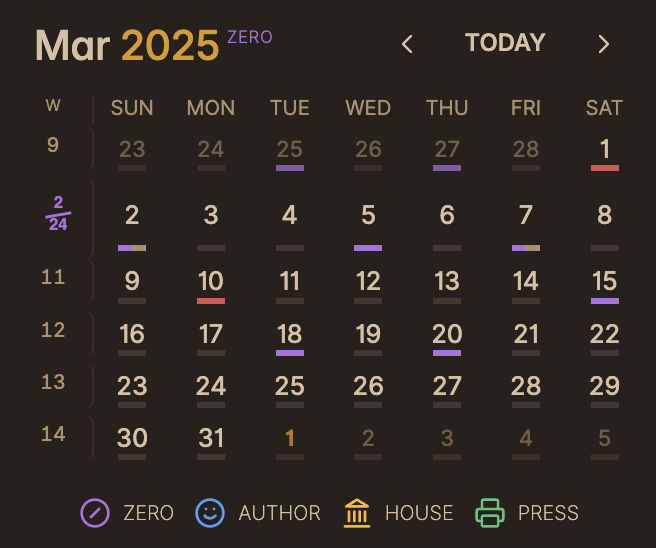
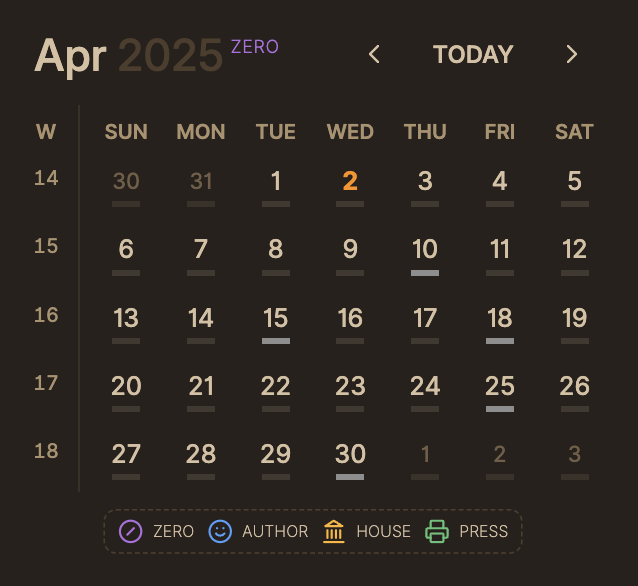
Adjust ratio line position and styling: Move horizontal line up 2px, update screenshot

diff --git a/styles.css b/styles.css
@@ -16,7 +16,7 @@ If your plugin does not need CSS, delete this file.
     --color-overdue: #d95353;  /* Red for overdue items */
     --color-future: #8e8e8e;   /* Grey for future todos */
     --color-text-today: #ff9100; /* Orange for today's date */
-    --ratio-svg-size: 28px; /* Single control point for SVG size */
+    --ratio-svg-size: 24px; /* Increased from 20px for better visibility */
     
     /* SVG ratio stage colors */
     --stage-zero-color: var(--color-zero);
@@ -25,9 +25,13 @@ If your plugin does not need CSS, delete this file.
     --stage-press-color: var(--color-press);
 }
 
+/* Add padding to the view-content container */
+.view-content.manuscript-calendar-view {
+    padding: 20px 20px 40px 20px;
+}
+
 /* CALENDAR CONTAINER AND LAYOUT */
 .manuscript-calendar-view {
-    padding: 0 1rem 0.5rem 1rem;
     overflow-x: auto;
     display: flex;
     flex-direction: column;
@@ -61,7 +65,6 @@ If your plugin does not need CSS, delete this file.
 .month-selector span {
     position: relative;
     font-weight: 500;
-    font-size: 1.2rem;
     margin-right: auto;
     display: flex;
     align-items: baseline;
@@ -72,12 +75,6 @@ If your plugin does not need CSS, delete this file.
     margin-right: 5px;
 }
 
-/* Replace the after pseudo-element with a different approach */
-.month-selector span::after {
-    content: attr(data-year);
-    color: var(--alternating-color-1);
-    font-weight: 600;
-}
 
 /* Remove the old stage indicator styles */
 .month-selector span[data-stage]:not([data-stage=""]):not([data-stage="undefined"]) {
@@ -87,17 +84,19 @@ If your plugin does not need CSS, delete this file.
 
 /* Month/Year elements */
 .month-text {
+    font-size: 22px !important;
     font-weight: 500;
 }
 
 .year-text {
-    color: var(--alternating-color-1);
+    font-size: 22px !important;
     font-weight: 600;
+    color: var(--text-accent);
 }
 
 /* Create the stage badge as a proper exponent */
 .month-selector span .stage-indicator {
-    font-size: 0.5rem;
+    font-size: 9px;
     font-weight: 300;
     text-transform: uppercase;
     letter-spacing: 0.3px;
@@ -155,7 +154,7 @@ If your plugin does not need CSS, delete this file.
     font-size: 0.7rem;
     font-weight: 500;
     position: relative;
-    top: -2px;
+    top: -1px;
     padding: 4px 8px !important;
     background: none !important;
     border: none !important;
@@ -178,21 +177,43 @@ If your plugin does not need CSS, delete this file.
     width: 100%;
     table-layout: fixed; /* Ensure equal cell widths */
     border-spacing: 0; /* Eliminate gaps between cells */
+    position: relative; /* For pseudo-element positioning */
 }
 
-/* Week column separator */
-.week-separator {
-    border-right: 1px solid var(--background-modifier-border);
-    position: relative;
-    z-index: 1;
+/* Week number cell styling */
+.manuscript-calendar .week-number {
     background-color: var(--background-secondary);
+    color: var(--text-muted);
+    font-size: 9px;
+    text-align: center;
+    min-width: 32px;
+    max-width: 32px;
+    height: 32px;
+    font-variant-numeric: tabular-nums;
+    cursor: default;
+    position: relative;
+    display: flex;
+    align-items: center;
+    justify-content: center;
+    padding: 0;
 }
 
-.manuscript-calendar th.week-separator,
-.manuscript-calendar td.week-separator {
-    border-right: 1px solid var(--background-modifier-border);
-    width: 40px; /* Fixed width for week number column */
-    height: 100%; /* Ensure full height coverage */
+/* Create a continuous vertical border using pseudo-element */
+.manuscript-calendar::before {
+    content: "";
+    position: absolute;
+    top: 0;
+    left: 32px; /* Width of week number column */
+    bottom: 0;
+    width: 1px;
+    background-color: var(--background-modifier-border);
+    z-index: 1;
+}
+
+/* Remove any existing cell borders */
+.manuscript-calendar th:not(.week-number):first-of-type,
+.manuscript-calendar td:not(.week-number):first-of-type {
+    border-left: none;
 }
 
 .manuscript-calendar th,
@@ -209,13 +230,22 @@ If your plugin does not need CSS, delete this file.
 
 .manuscript-calendar th {
     padding-bottom: 4px;
+    padding-top: 0;
     font-size: 0.6rem;
-    font-weight: 400;
+    font-weight: 600;
     color: var(--text-muted);
+    vertical-align: bottom;
+    line-height: 1;
 }
 
 .manuscript-calendar th.week-number {
-    font-size: 8px; /* Smaller header font */
+    font-size: 0.6rem;
+    padding-bottom: 4px;
+    padding-top: 0;
+    vertical-align: bottom; /* Ensure bottom alignment */
+    font-weight: 600;
+    line-height: 1;
+    height: auto; /* Let content determine height */
 }
 
 .week-number {
@@ -232,8 +262,8 @@ If your plugin does not need CSS, delete this file.
 .manuscript-calendar td {
     width: calc(100% / 7);
     border-radius: 4px;
-    padding-top: 4px;
-    padding-bottom: 8px; /* Reduced from 12px to 8px */
+    padding-top: 8px;
+    padding-bottom: 12px;
 }
 
 .manuscript-calendar td.other-month {
@@ -293,7 +323,7 @@ td.clickable-cell:hover::before {
     border-radius: 0;
     display: block;
     position: absolute;
-    bottom: 4px; /* Reduced from 6px to 4px */
+    bottom: 6px;
     left: 50%;
     transform: translateX(-50%);
 }
@@ -306,7 +336,7 @@ td.clickable-cell:hover::before {
     background-color: var(--text-normal);
     opacity: 0.15;
     position: absolute;
-    bottom: 4px; /* Reduced from 6px to 4px */
+    bottom: 6px;
     left: 50%;
     transform: translateX(-50%);
 }
@@ -383,11 +413,15 @@ td.clickable-cell:hover::before {
 .calendar-legend {
     display: flex;
     justify-content: center;
-    gap: 10px;
+    gap: 8px; /* Reduced from 10px */
     flex-wrap: wrap;
-    padding: 4px 10px;
-    border-radius: 6px;
+    padding: 3px 8px; /* Reduced from 4px 10px */
+    border-radius: 8px; /* Increased for better roundness */
     background-color: var(--background-secondary);
+    transform: scale(0.8); /* Scale down by 20% */
+    transform-origin: center top; /* Keep the legend centered */
+    border: 1px dashed var(--text-accent); /* Changed from --alternating-color-1 to --text-accent */
+    margin: 0 auto; /* Center the legend horizontally */
 }
 
 .legend-item {
@@ -678,21 +712,6 @@ td.clickable-cell:hover::before {
     color: var(--color-press);
 }
 
-/* Week number cell styling with separator */
-.manuscript-calendar .week-number {
-    background-color: var(--background-secondary);
-    color: var(--text-muted);
-    font-size: 0.85em;
-    text-align: center;
-    min-width: 1.5em;
-    font-variant-numeric: tabular-nums;
-    cursor: default;
-}
-
-.manuscript-calendar .week-separator {
-    border-right: 1px solid var(--background-modifier-border);
-}
-
 /* Stage colors for week completion */
 .manuscript-calendar .week-completed.stage-zero {
     color: var(--color-zero);
@@ -713,9 +732,8 @@ td.clickable-cell:hover::before {
 /* Stage indicator colors */
 
 .week-number-small {
-    font-size: 10px; /* Smaller week number */
+    font-size: 0.65rem;
     display: inline-block;
-    min-width: auto; /* Allow width to shrink */
     line-height: 1;
 }
 
@@ -724,33 +742,35 @@ td.clickable-cell:hover::before {
     display: none !important; 
 }
 
+/* Week ratio styling */
 .week-ratio {
     display: inline-flex;
+    align-items: center;
+    justify-content: center;
+    height: 32px;
+    width: 32px;
 }
 
 .ratio-svg {
     width: var(--ratio-svg-size);
     height: var(--ratio-svg-size);
-    vertical-align: baseline;
+    vertical-align: middle;
     display: inline-block;
-    padding-right: 4px; /* Increased padding to 6px */
 }
 
 .ratio-numerator, 
 .ratio-denominator {
-    font-size: 9px;
+    font-size: 11px;
     font-family: sans-serif;
     font-weight: bold;
     fill: currentColor;
 }
 
+/* Make the line horizontal and position it between numbers */
 .ratio-line {
     stroke: currentColor;
     stroke-width: 1.5;
-}
-
-.week-completed {
-    /* Remove this class as it's redundant and might cause issues */
+    transform: none; /* Remove rotation */
 }
 
 /* Stage-specific colors for the ratio SVG */
@@ -768,12 +788,4 @@ td.clickable-cell:hover::before {
 
 .stage-press .ratio-svg {
     color: var(--color-press);
-}
-
-/* Ensure the week separator border is visible */
-.week-separator {
-    border-right: 1px solid var(--background-modifier-border);
-    position: relative;
-    z-index: 1;
-    background-color: var(--background-secondary);
 }

diff --git a/main.ts b/main.ts
@@ -64,37 +64,25 @@ function createRatioSVG(numerator: number, denominator: number): SVGElement {
 
     // Create numerator text
     const numeratorText = document.createElementNS("http://www.w3.org/2000/svg", "text");
-    numeratorText.setAttribute("x", "15");
-    numeratorText.setAttribute("y", "11");
+    numeratorText.setAttribute("x", "10");
+    numeratorText.setAttribute("y", "10");
     numeratorText.setAttribute("text-anchor", "middle");
     numeratorText.classList.add("ratio-numerator");
     numeratorText.textContent = numerator.toString();
     svg.appendChild(numeratorText);
 
-    // Create angled line (10 degrees)
+    // Create horizontal line
     const line = document.createElementNS("http://www.w3.org/2000/svg", "line");
-    
-    // Calculate coordinates for a line at 10 degree angle
-    const centerX = 15;
-    const centerY = 15;
-    const lineLength = 14;
-    const angleRad = 10 * Math.PI / 180; // 10 degrees in radians
-    
-    const x1 = centerX - lineLength/2 * Math.cos(angleRad);
-    const y1 = centerY + lineLength/2 * Math.sin(angleRad);
-    const x2 = centerX + lineLength/2 * Math.cos(angleRad);
-    const y2 = centerY - lineLength/2 * Math.sin(angleRad);
-    
-    line.setAttribute("x1", x1.toString());
-    line.setAttribute("y1", y1.toString());
-    line.setAttribute("x2", x2.toString());
-    line.setAttribute("y2", y2.toString());
+    line.setAttribute("x1", "3");
+    line.setAttribute("y1", "13");
+    line.setAttribute("x2", "17");
+    line.setAttribute("y2", "13");
     line.classList.add("ratio-line");
     svg.appendChild(line);
 
     // Create denominator text
     const denominatorText = document.createElementNS("http://www.w3.org/2000/svg", "text");
-    denominatorText.setAttribute("x", "15");
+    denominatorText.setAttribute("x", "10");
     denominatorText.setAttribute("y", "23");
     denominatorText.setAttribute("text-anchor", "middle");
     denominatorText.classList.add("ratio-denominator");
@@ -646,7 +634,7 @@ class ManuscriptCalendarView extends ItemView {
         const headerRow = calendarTable.createEl('tr');
         
         // Add the week number header with a separator
-        const weekHeader = headerRow.createEl('th', { text: 'W', cls: 'week-number week-separator' });
+        const weekHeader = headerRow.createEl('th', { text: 'W', cls: 'week-number' });
         
         // Updated day labels with three letters
         const dayLabels = ['SUN', 'MON', 'TUE', 'WED', 'THU', 'FRI', 'SAT'];
@@ -1163,7 +1151,7 @@ class ManuscriptCalendarView extends ItemView {
             const weekNum = this.getWeekNumber(currentDate);
             const weekYear = `${currentDate.getFullYear()}-W${weekNum}`;
             const weekCell = weekRow.createEl('td', { 
-                cls: 'week-number week-separator' 
+                cls: 'week-number' 
             });
 
             // Get stats for this week
